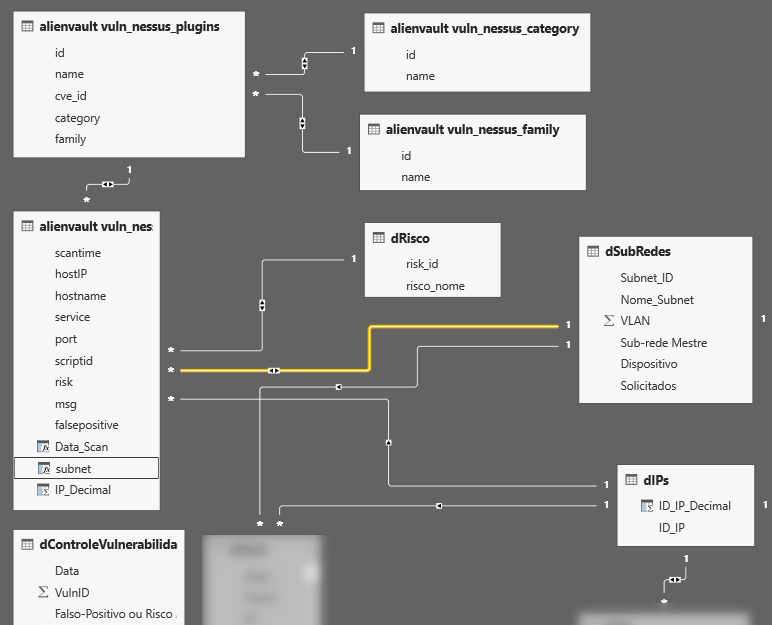
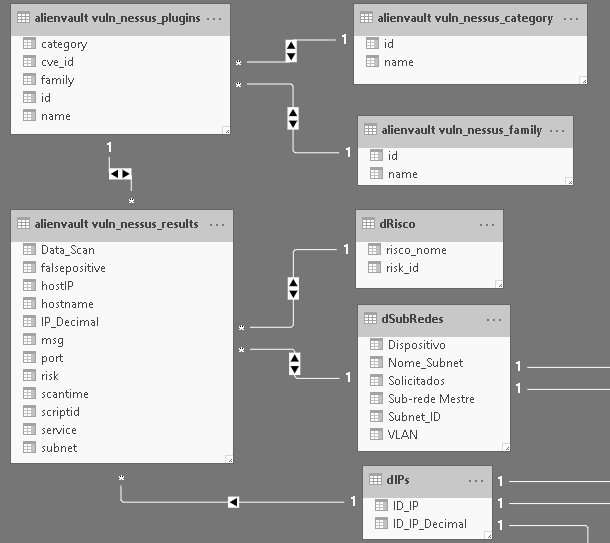
Exemplos de Painel de Vulnerabilidades

diff --git a/source/OSSIM_Dashboard.rst b/source/OSSIM_Dashboard.rst
@@ -1,9 +1,6 @@
 Painel de Segurança com OSSIM e PowerBI
 ===============================
-Para quem usa a ferramenta `AlienVault OSSIM <https://www.alienvault.com/products/ossim>`_
-e acha um tanto complicado gerar relatórios utilizando a forma nativa é possível
-coletar os dados e montar painéis
-no `Microsoft PowerBI Desktop <https://powerbi.microsoft.com>`_ conforme sua necessidade.
+Para quem usa a ferramenta `AlienVault OSSIM <https://www.alienvault.com/products/ossim>`_ e acha um tanto complicado gerar relatórios utilizando os recursos nativos, é possível coletar os dados e montar painéis no `Microsoft PowerBI Desktop <https://powerbi.microsoft.com>`_, conforme sua necessidade. Além de uma flexibilidade no tratamento dos dados permite também análises rápidas e precisas.
 
 
 .. figure:: Painel_OSSIM_PBI.png
@@ -39,9 +36,9 @@ Os procedimentos para a coleta dos dados via Power BI.
   * **Conector MySQL** - https://dev.mysql.com/downloads/connector/net/
 
 
-* **Conexão com a Base de Dados** - caso tenha acesso a base pule essa etapa, porém se deseja acessar a base (restrita somente para o servidor do OSSIM) via túnel SSH, é necessário:
+* **Conexão com a Base Local Restrita** - caso tenha acesso a base pule essa etapa, porém se deseja acessar a base (restrita somente para o servidor do OSSIM) via túnel SSH, é necessário:
 
-  * **Resolução de Nome** - alterar a configuração do banco de dados (```/etc/mysql/my.cnf``), alterando o parâmetro ``skip_name_resolve`` para ``#skip_name_resolve``.
+  * **Resolução de Nome** - alterar a configuração do banco de dados (``/etc/mysql/my.cnf``), alterando o parâmetro ``skip_name_resolve`` para ``#skip_name_resolve``.
 
   * **Túnel SSH** - para acessar a base, que está disponível apenas localmente no servidor, faça uma conexão SSH com o servidor tunelando a porta do MySQL
 
@@ -54,6 +51,7 @@ Os procedimentos para a coleta dos dados via Power BI.
   * **alienvault_vuln_nessus_results**
 
 
+
 .. figure:: OSSIM_Tabelas.png
     :scale: 80 %
     :align: center
@@ -63,8 +61,7 @@ Os procedimentos para a coleta dos dados via Power BI.
 
 
 
-
-Depois de importado os dados e analisado seu conteúdo, observa-se as PKs (chaves primárias) de forma a criar o relacionamento entre as tabelas. Abaixo, a visão final de como ficaram os relacionamentos entre as tabelas e algumas (tabelas e colunas) criadas adicionalmente explicadas logo a seguir.
+Depois de importado os dados e analisado seu conteúdo, observa-se as PKs (chaves primárias) de forma a criar o relacionamento entre as tabelas. A figura abaixo, exibe a visão final de como ficaram os relacionamentos entre as tabelas e algumas (tabelas e colunas) criadas adicionalmente, explicadas logo a seguir.
 
 .. figure:: OSSIM_Relacionamentos.png
     :scale: 80 %
@@ -75,7 +72,7 @@ Depois de importado os dados e analisado seu conteúdo, observa-se as PKs (chave
 
 Foram criadas algumas tabelas e colunas para que fosse possível atender a certas necessidades, sendo elas:
 
-* **Data do Scan** - como a data da varredura estava em um formato que não era possível hierarquizá-las, foi criada uma nova coluna separando a data na tabela ``alienvault_vuln_nessus_results` na sintaxe DAX::
+* **Data do Scan** - como a data da varredura estava em um formato que não era possível hierarquizá-las, foi criada uma nova coluna separando na tabela ``alienvault_vuln_nessus_results`` na sintaxe DAX::
 
 
     Data_Scan = DATE(
@@ -84,7 +81,7 @@ Foram criadas algumas tabelas e colunas para que fosse possível atender a certa
                      RIGHT(LEFT('alienvault vuln_nessus_results'[scantime];8);2)) //Dia
 
 
-* **SubRedes** - para que fosse possível analisar vulnerabilidade por rede. Foi criada a nova coluna abaixo utilizando sintaxe DAX::
+* **IPs por SubRede** - para que fosse possível analisar vulnerabilidade por rede. Foi criada outra coluna na tabela ``alienvault vuln_nessus_results`` utilizando sintaxe DAX que separa exclui o último octeto::
 
     subnet = PATHITEM(SUBSTITUTE('alienvault vuln_nessus_results'[hostIP];".";"|");1) & // Primeiro Octeto
              "." &
@@ -92,3 +89,33 @@ Foram criadas algumas tabelas e colunas para que fosse possível atender a certa
              "." &
              PATHITEM(SUBSTITUTE('alienvault vuln_nessus_results'[hostIP];".";"|");3) & // Terceiro Octeto
              "."
+
+.. note:: Para segmentação de redes com máscaras mais fechadas, por exemplo /25, um tratamento correto deve ser feito.
+
+
+De forma a permitir filtros por IPs, riscos com nomes personalizados e também poder agrupar IPs por sub-redes, de acordo com o ambiente (exemplo: Rede A, Rede B, Rede C), foram criadas colunas adicionais, criando-se relacionamentos com as da base do OSSIM.
+
+* **dIPs** - criada a tabela ``dIPs`` contendo todos IPs do ambiente. Isto foi necessário para que o filtro cruzado com a tabela ``dSubRedes`` fosse possível, isto é, que os IPs pudesse ser agrupado em uma rede específica.
+
+* **dSubRedes** - criada a tabela ``dSubRedes``, com base nos dados extraídos da ferramenta IPAM, na qual continha todas as definições de sub-redes, permitindo que filtros por sub-rede no PowerBI fossem feitos
+
+* **dRisco** - a tabela de dimensão ``dRisco`` permitiu personalizar a descrição dos riscos.
+
+O mapa de relacionamentos ficou assim:
+
+.. figure:: OSSIM_Relacionamentos2.png
+    :scale: 80 %
+    :align: center
+    :alt: Relacionamento de tabelas e suas respectivas chaves no PowerBI
+
+    Relacionamento de tabelas e suas respectivas chaves no PowerBI.
+
+
+Agora é ajustar o painel de vulnerabilidades no PowerBI e extrair informaçoes do OSSIM e, principalmente, manter seu ambiente atualizado e seguro.
+
+.. figure:: Painel_OSSIM_PBI2.png
+    :scale: 80 %
+    :align: center
+    :alt: Painel do OSSIM no PowerBI
+
+    Outro exemplo de um *dashboard* no PowerBI com dados do OSSIM.
